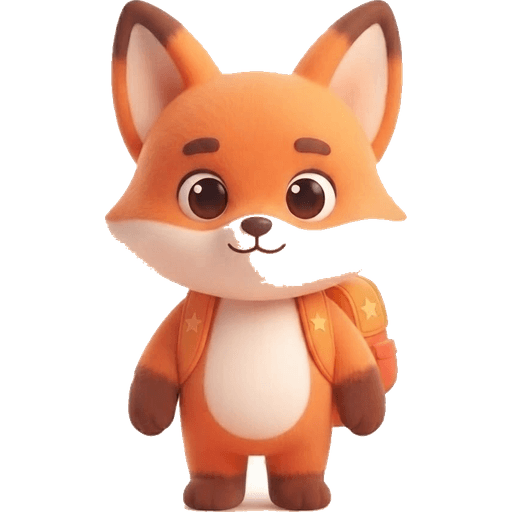
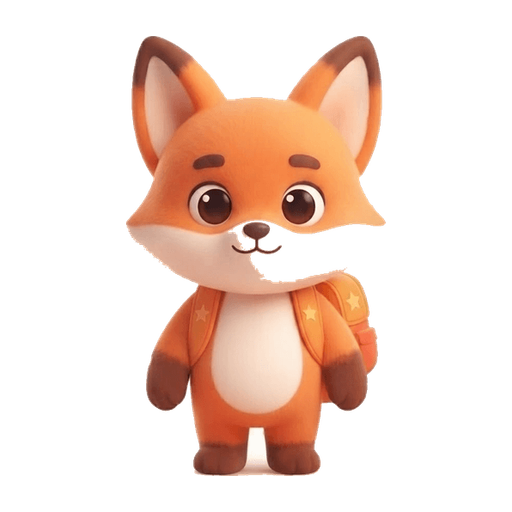
Zefi assetləri: kənar boşluq + celebrating daxili ağ ciblərin təmizlənməsi
- bütün pozalara bərabər kənar boşluq (~7%) — hero welcome mobil kəsilmə düzəldi
- celebrating: kubok qulpunun içi + ayaq arası ağ arxaplan silindi (böyük ciblər), göz/yanaq parıltıları saxlanıldı
- SW keş v46

Changed region(s): [[0.1875, 0.0, 0.8125, 1.0]]

diff --git a/public/sw.js b/public/sw.js
@@ -5,7 +5,7 @@
 //   - Naviqasiya (səhifə): əvvəlcə şəbəkə, offline olsa keşdən/ana səhifədən.
 //   - Statik fayllar (_next/static, şəkil, şrift): stale-while-revalidate.
 
-const CACHE = "bilik-yolu-v45";
+const CACHE = "bilik-yolu-v46";
 const OFFLINE_URL = "/";
 
 // Şəbəkə çatmayanda göstəriləcək minimal offline HTML.
